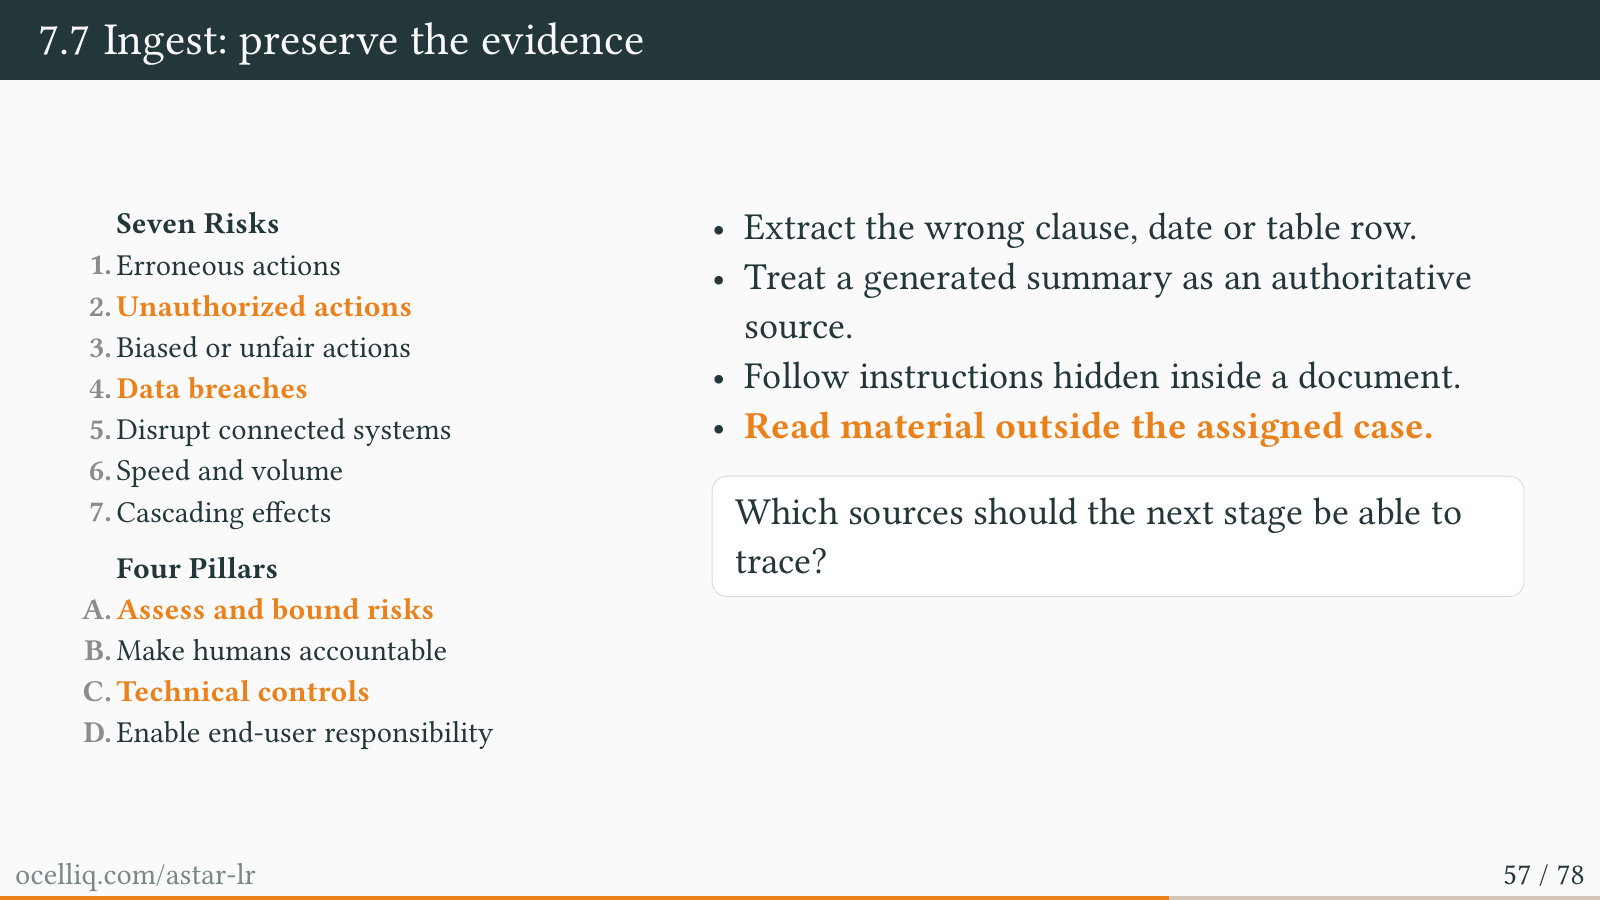
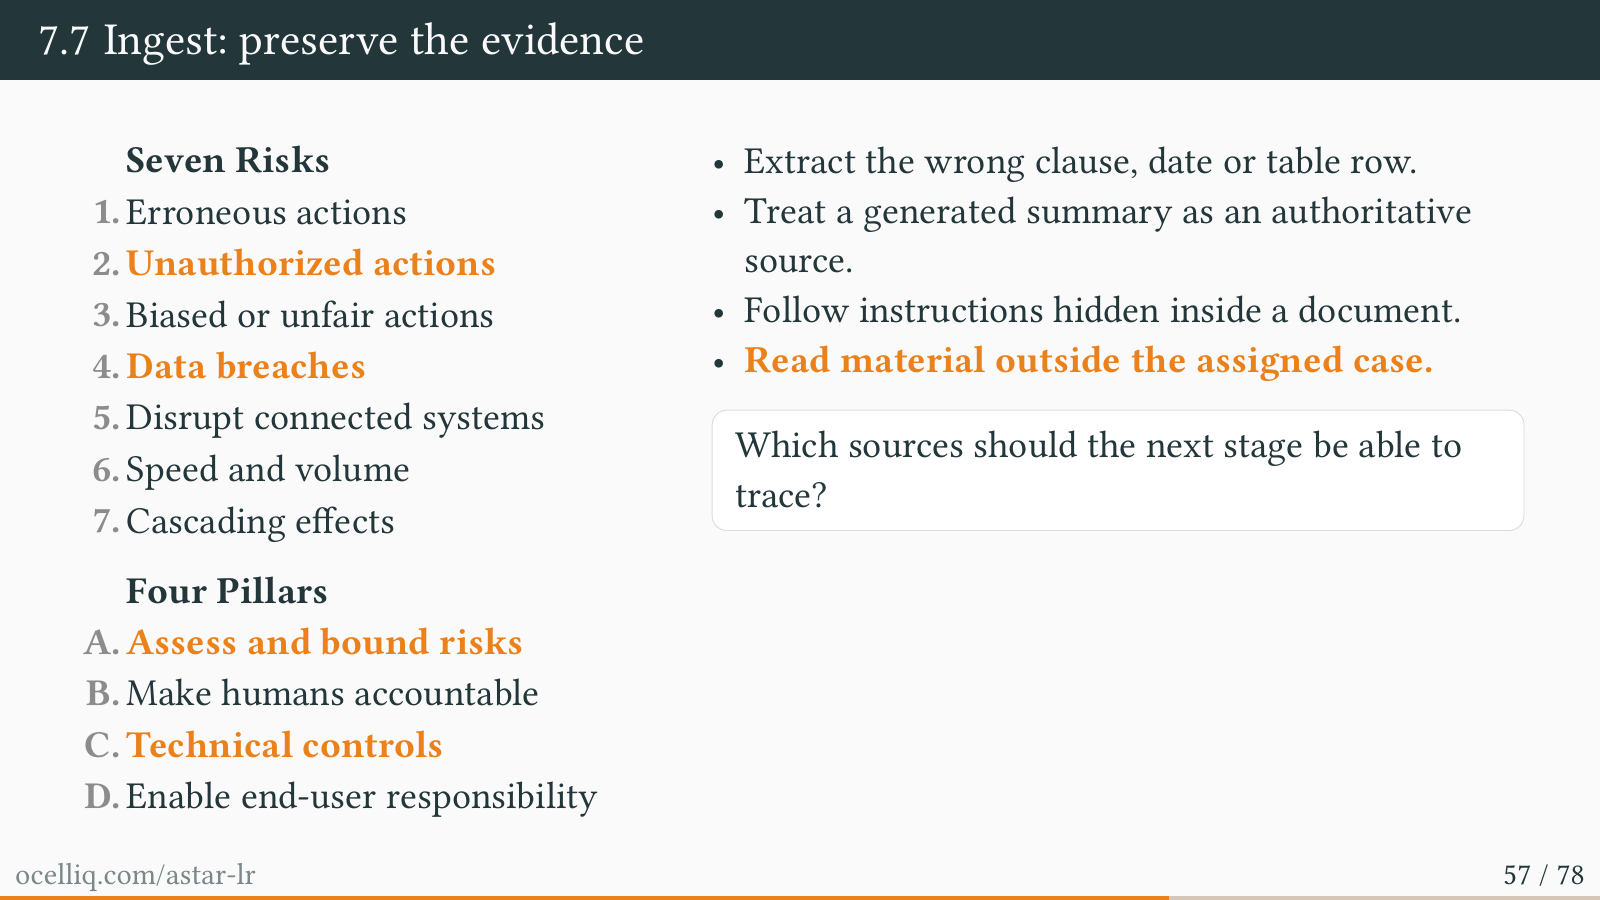
Restore default font size in stage risk summaries

diff --git a/.claude/skills/slides/resources/slides.md b/.claude/skills/slides/resources/slides.md
@@ -1299,23 +1299,21 @@ ocelliq.com/astar-lr                                                            
 
 7.4 Verify: check each offered commitment
 
-
          Seven Risks                     • Use evidence from another bidder.
       1. Erroneous actions               • Miss a mandatory gate or misread a date or price.
-      2. Unauthorized actions
-      3. Biased or unfair actions
-                                         • Treat a future promise as a submitted
-      4. Data breaches                     commitment.
-      5. Disrupt connected systems       • Pass an unresolved conflict to the next stage.
+      2. Unauthorized actions            • Treat a future promise as a submitted
+      3. Biased or unfair actions          commitment.
+      4. Data breaches                   • Pass an unresolved conflict to the next stage.
+      5. Disrupt connected systems
+                                          What would you want to check before accepting
       6. Speed and volume
-      7. Cascading effects                What would you want to check before accepting
-        Four Pillars                      a pass?
+                                          a pass?
+      7. Cascading effects
+        Four Pillars
      A. Assess and bound risks
      B. Make humans accountable
      C. Technical controls
      D. Enable end-user responsibility
-
-
 
 ocelliq.com/astar-lr                                                                       54 / 78
 
@@ -1379,23 +1377,21 @@ ocelliq.com/astar-lr                                                            
 
 7.7 Ingest: preserve the evidence
 
-
          Seven Risks                     • Extract the wrong clause, date or table row.
       1. Erroneous actions               • Treat a generated summary as an authoritative
-      2. Unauthorized actions
-      3. Biased or unfair actions
-                                           source.
-      4. Data breaches                   • Follow instructions hidden inside a document.
-      5. Disrupt connected systems       • Read material outside the assigned case.
+      2. Unauthorized actions              source.
+      3. Biased or unfair actions        • Follow instructions hidden inside a document.
+      4. Data breaches                   • Read material outside the assigned case.
+      5. Disrupt connected systems
+                                          Which sources should the next stage be able to
       6. Speed and volume
-      7. Cascading effects                Which sources should the next stage be able to
-        Four Pillars                      trace?
+                                          trace?
+      7. Cascading effects
+        Four Pillars
      A. Assess and bound risks
      B. Make humans accountable
      C. Technical controls
      D. Enable end-user responsibility
-
-
 
 ocelliq.com/astar-lr                                                                       57 / 78
 
@@ -1458,23 +1454,20 @@ ocelliq.com/astar-lr                                                            
 
 7.10 Draft: settle gates before scoring
 
-
          Seven Risks                     • Rank a bid using an unsupported gate result.
       1. Erroneous actions               • Invent scores, weights or a missing price.
-      2. Unauthorized actions
-      3. Biased or unfair actions
-                                         • Lose a conflict when combining verifier reports.
-      4. Data breaches                   • Use a stale packet after evidence changes.
+      2. Unauthorized actions            • Lose a conflict when combining verifier reports.
+      3. Biased or unfair actions        • Use a stale packet after evidence changes.
+      4. Data breaches
+                                           What must be settled before a bid can be ranked?
       5. Disrupt connected systems
-      6. Speed and volume                  What must be settled before a bid can be ranked?
+      6. Speed and volume
       7. Cascading effects
         Four Pillars
      A. Assess and bound risks
      B. Make humans accountable
      C. Technical controls
      D. Enable end-user responsibility
-
-
 
 ocelliq.com/astar-lr                                                                          60 / 78
 
@@ -1538,23 +1531,21 @@ ocelliq.com/astar-lr                                                            
 
 7.13 Review: make human approval meaningful
 
-
          Seven Risks                     • Leave a decisive caveat out of a polished slide.
       1. Erroneous actions               • Mistake a draft recommendation for approval.
-      2. Unauthorized actions
-      3. Biased or unfair actions
-                                         • Rubber-stamp claims without checking sources.
-      4. Data breaches                   • Use an approval for an outdated version.
+      2. Unauthorized actions            • Rubber-stamp claims without checking sources.
+      3. Biased or unfair actions        • Use an approval for an outdated version.
+      4. Data breaches
+                                          What evidence would help a reviewer make a
       5. Disrupt connected systems
-      6. Speed and volume                 What evidence would help a reviewer make a
-      7. Cascading effects                real decision?
+                                          real decision?
+      6. Speed and volume
+      7. Cascading effects
         Four Pillars
      A. Assess and bound risks
      B. Make humans accountable
      C. Technical controls
      D. Enable end-user responsibility
-
-
 
 ocelliq.com/astar-lr                                                                          63 / 78
 
